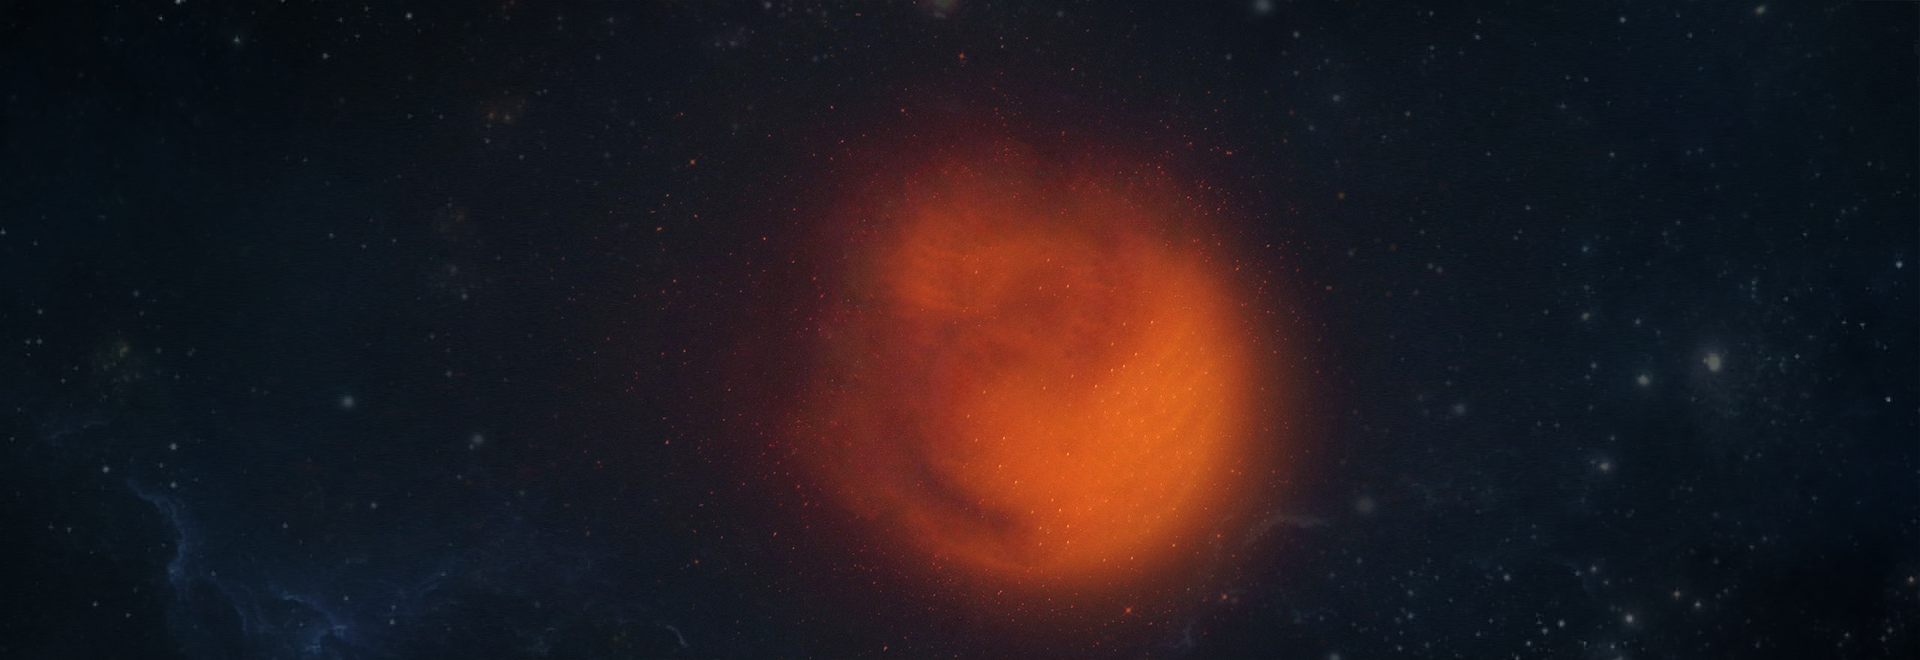
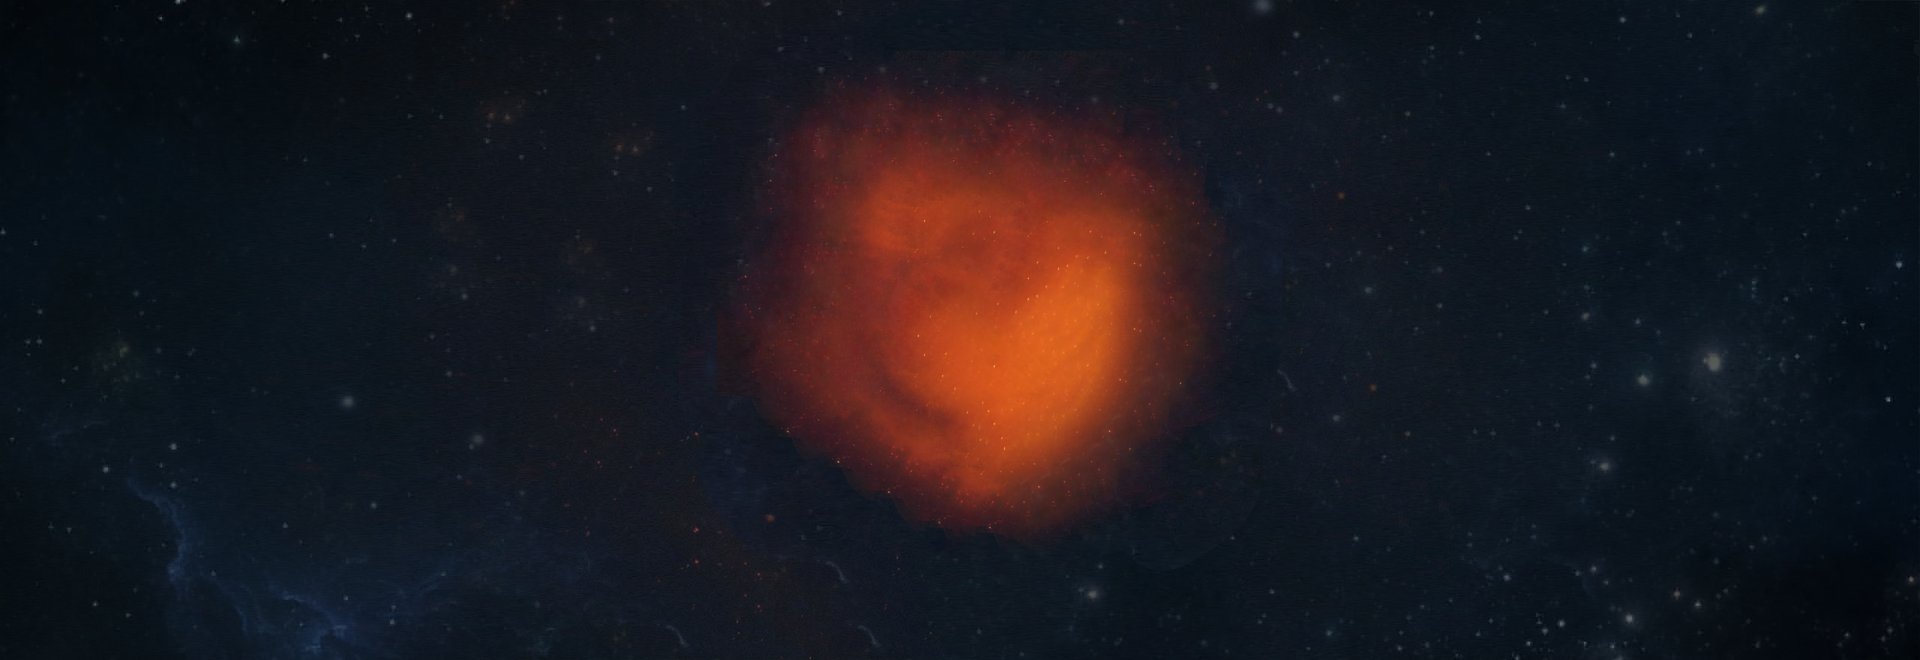
Background changes

Changed region(s): [[0.375, 0.1212, 0.6875, 1.0], [0.4688, 0.0, 0.5, 0.0303]]

diff --git a/src/App.css b/src/App.css
@@ -3,7 +3,8 @@
   background-image: url("assets/backgrounds/background.png");
   background-repeat: no-repeat;
   background-position: center;
-  height: 640px;
+  background-size: cover;
+  height: 100vh;
   max-width: 100%;
   padding: 5px;
   flex-direction: column;
@@ -16,6 +17,13 @@
 
 .main-wrapper {
   padding: 10px;
+}
+
+@media (max-width: 1024px) and (min-width: 650px) {
+  .app-wrapper {
+    background-image: url("assets/backgrounds/background_empty.png");
+  }
+
 }
 
 @media (max-width: 650px) {
